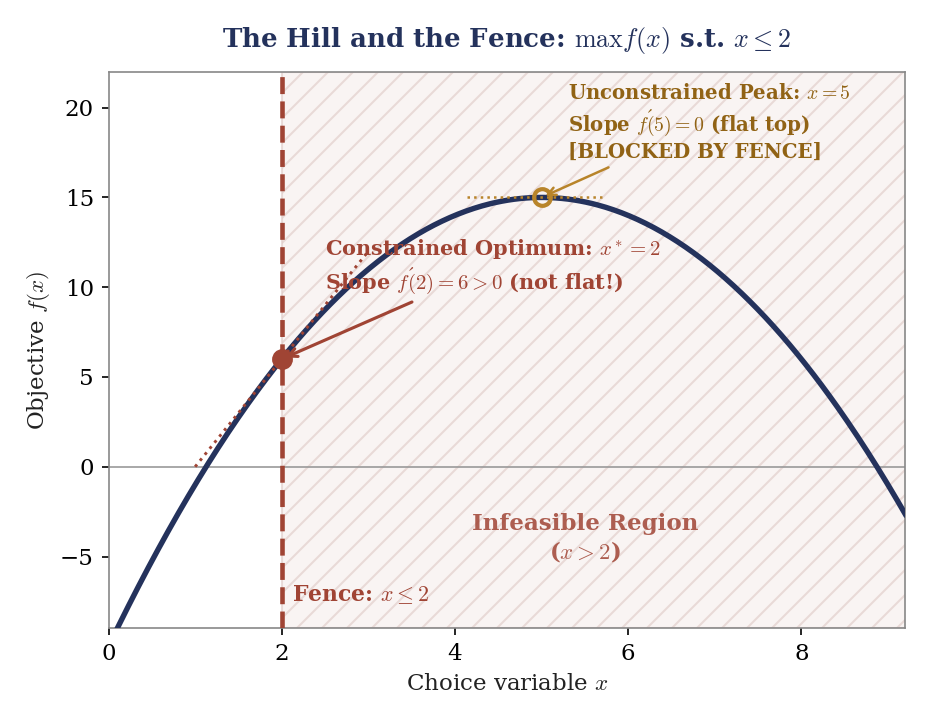
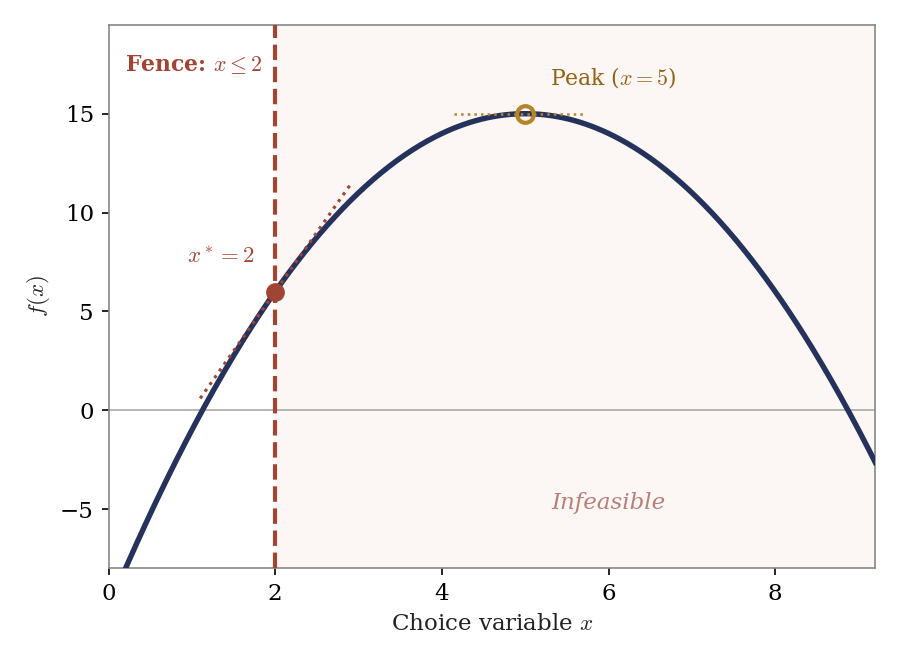
feat(slides): declutter Hill & Fence graphic and split into two-slide progression

Changed region(s): [[0.0311, 0.0303, 0.9956, 0.9697], [0.4978, 0.697, 0.7467, 0.7879]]

diff --git a/tools/make_hill_fence_fig.py b/tools/make_hill_fence_fig.py
@@ -18,54 +18,48 @@ plt.rcParams.update({
 x = np.linspace(0, 9.2, 400)
 f = 10 * x - 10 - x**2
 
-fig, ax = plt.subplots(figsize=(6.2, 4.8), dpi=150)
+fig, ax = plt.subplots(figsize=(6.0, 4.4), dpi=150)
 
 # Plot hill
-ax.plot(x, f, color=NAVY, lw=2.6, label=r'Hill: $f(x) = 10x - 10 - x^2$', zorder=3)
+ax.plot(x, f, color=NAVY, lw=2.6, zorder=3)
 
 # Fence at x = 2
 fence_x = 2.0
 f_fence = 10 * fence_x - 10 - fence_x**2  # 6.0
-ax.axvline(fence_x, color=BRICK, lw=2.2, ls='--', zorder=4)
+ax.axvline(fence_x, color=BRICK, lw=2.0, ls='--', zorder=4)
 
-# Infeasible shaded region x > 2
-ax.axvspan(fence_x, 9.5, facecolor='#f7f0ef', alpha=0.7, hatch='//', edgecolor='#e2cfcc', zorder=1)
-ax.text(5.5, -4, 'Infeasible Region\n($x > 2$)', color=BRICK, fontsize=11, fontweight='bold', ha='center', va='center', alpha=0.85)
+# Infeasible shaded region x > 2 (soft, clean, no heavy text)
+ax.axvspan(fence_x, 9.5, facecolor='#fcf4f2', alpha=0.8, edgecolor='none', zorder=1)
+ax.text(6.0, -5, 'Infeasible', color='#b88078', fontsize=11, fontstyle='italic', ha='center')
 
 # Constrained optimum at x = 2
-ax.plot(fence_x, f_fence, 'o', color=BRICK, ms=9, zorder=6)
-# Tangent at fence: slope = 10 - 2*2 = 6
-t_x = np.linspace(1.0, 3.0, 50)
+ax.plot(fence_x, f_fence, 'o', color=BRICK, ms=8, zorder=6)
+# Tangent at fence: slope = 6
+t_x = np.linspace(1.1, 2.9, 50)
 t_y = f_fence + 6.0 * (t_x - fence_x)
-ax.plot(t_x, t_y, color=BRICK, lw=1.4, ls=':', zorder=5)
+ax.plot(t_x, t_y, color=BRICK, lw=1.5, ls=':', zorder=5)
 
-ax.annotate(r'Constrained Optimum: $x^* = 2$' + '\n' + r'Slope $f\'(2) = 6 > 0$ (not flat!)',
-            xy=(fence_x, f_fence), xytext=(fence_x + 0.5, f_fence + 3.5),
-            color=BRICK, fontsize=10, fontweight='bold',
-            arrowprops=dict(arrowstyle='->', color=BRICK, lw=1.5),
-            ha='left', va='bottom')
+ax.annotate(r'$x^* = 2$', xy=(fence_x, f_fence), xytext=(fence_x - 0.25, f_fence + 1.2),
+            color=BRICK, fontsize=11, fontweight='bold', ha='right', va='bottom')
 
 # Unconstrained peak at x = 5
 peak_x = 5.0
 peak_y = 15.0
 ax.plot(peak_x, peak_y, 'o', color=AMBER, ms=8, fillstyle='none', mew=2, zorder=4)
 ax.axhline(peak_y, xmin=0.45, xmax=0.62, color=AMBER, lw=1.2, ls=':', zorder=3)
-ax.annotate(r'Unconstrained Peak: $x = 5$' + '\n' + r'Slope $f\'(5) = 0$ (flat top)' + '\n' + r'[BLOCKED BY FENCE]',
-            xy=(peak_x, peak_y), xytext=(peak_x + 0.3, peak_y + 2.0),
-            color='#916315', fontsize=9.5, fontweight='bold',
-            arrowprops=dict(arrowstyle='->', color=AMBER, lw=1.2),
-            ha='left', va='bottom')
+ax.annotate(r'Peak ($x = 5$)', xy=(peak_x, peak_y), xytext=(peak_x + 0.3, peak_y + 1.2),
+            color='#916315', fontsize=10.5, ha='left', va='bottom')
 
 # Axes styling
-ax.axhline(0, color='#999999', lw=0.8, zorder=2)
+ax.axhline(0, color='#aaaaaa', lw=0.8, zorder=2)
 ax.set_xlim(0, 9.2)
-ax.set_ylim(-9, 22)
+ax.set_ylim(-8, 19.5)
 ax.set_xlabel('Choice variable $x$', fontsize=11)
-ax.set_ylabel('Objective $f(x)$', fontsize=11)
-ax.set_title(r'The Hill and the Fence: $\max f(x)$ s.t. $x \leq 2$', fontsize=12.5, color=NAVY, pad=12, fontweight='bold')
+ax.set_ylabel(r'$f(x)$', fontsize=11)
 
-# Tag fence
-ax.text(fence_x + 0.12, -7.5, r'Fence: $x \leq 2$', color=BRICK, fontsize=10.5, fontweight='bold', ha='left')
+# Fence label inside plot
+ax.text(fence_x - 0.15, 17.5, r'Fence: $x \leq 2$', color=BRICK, fontsize=10.5,
+        fontweight='bold', ha='right', va='center')
 
 plt.tight_layout()
 out_path = Path('slides/02_constrained-optimization/figs/hill-and-fence-graph.png')
